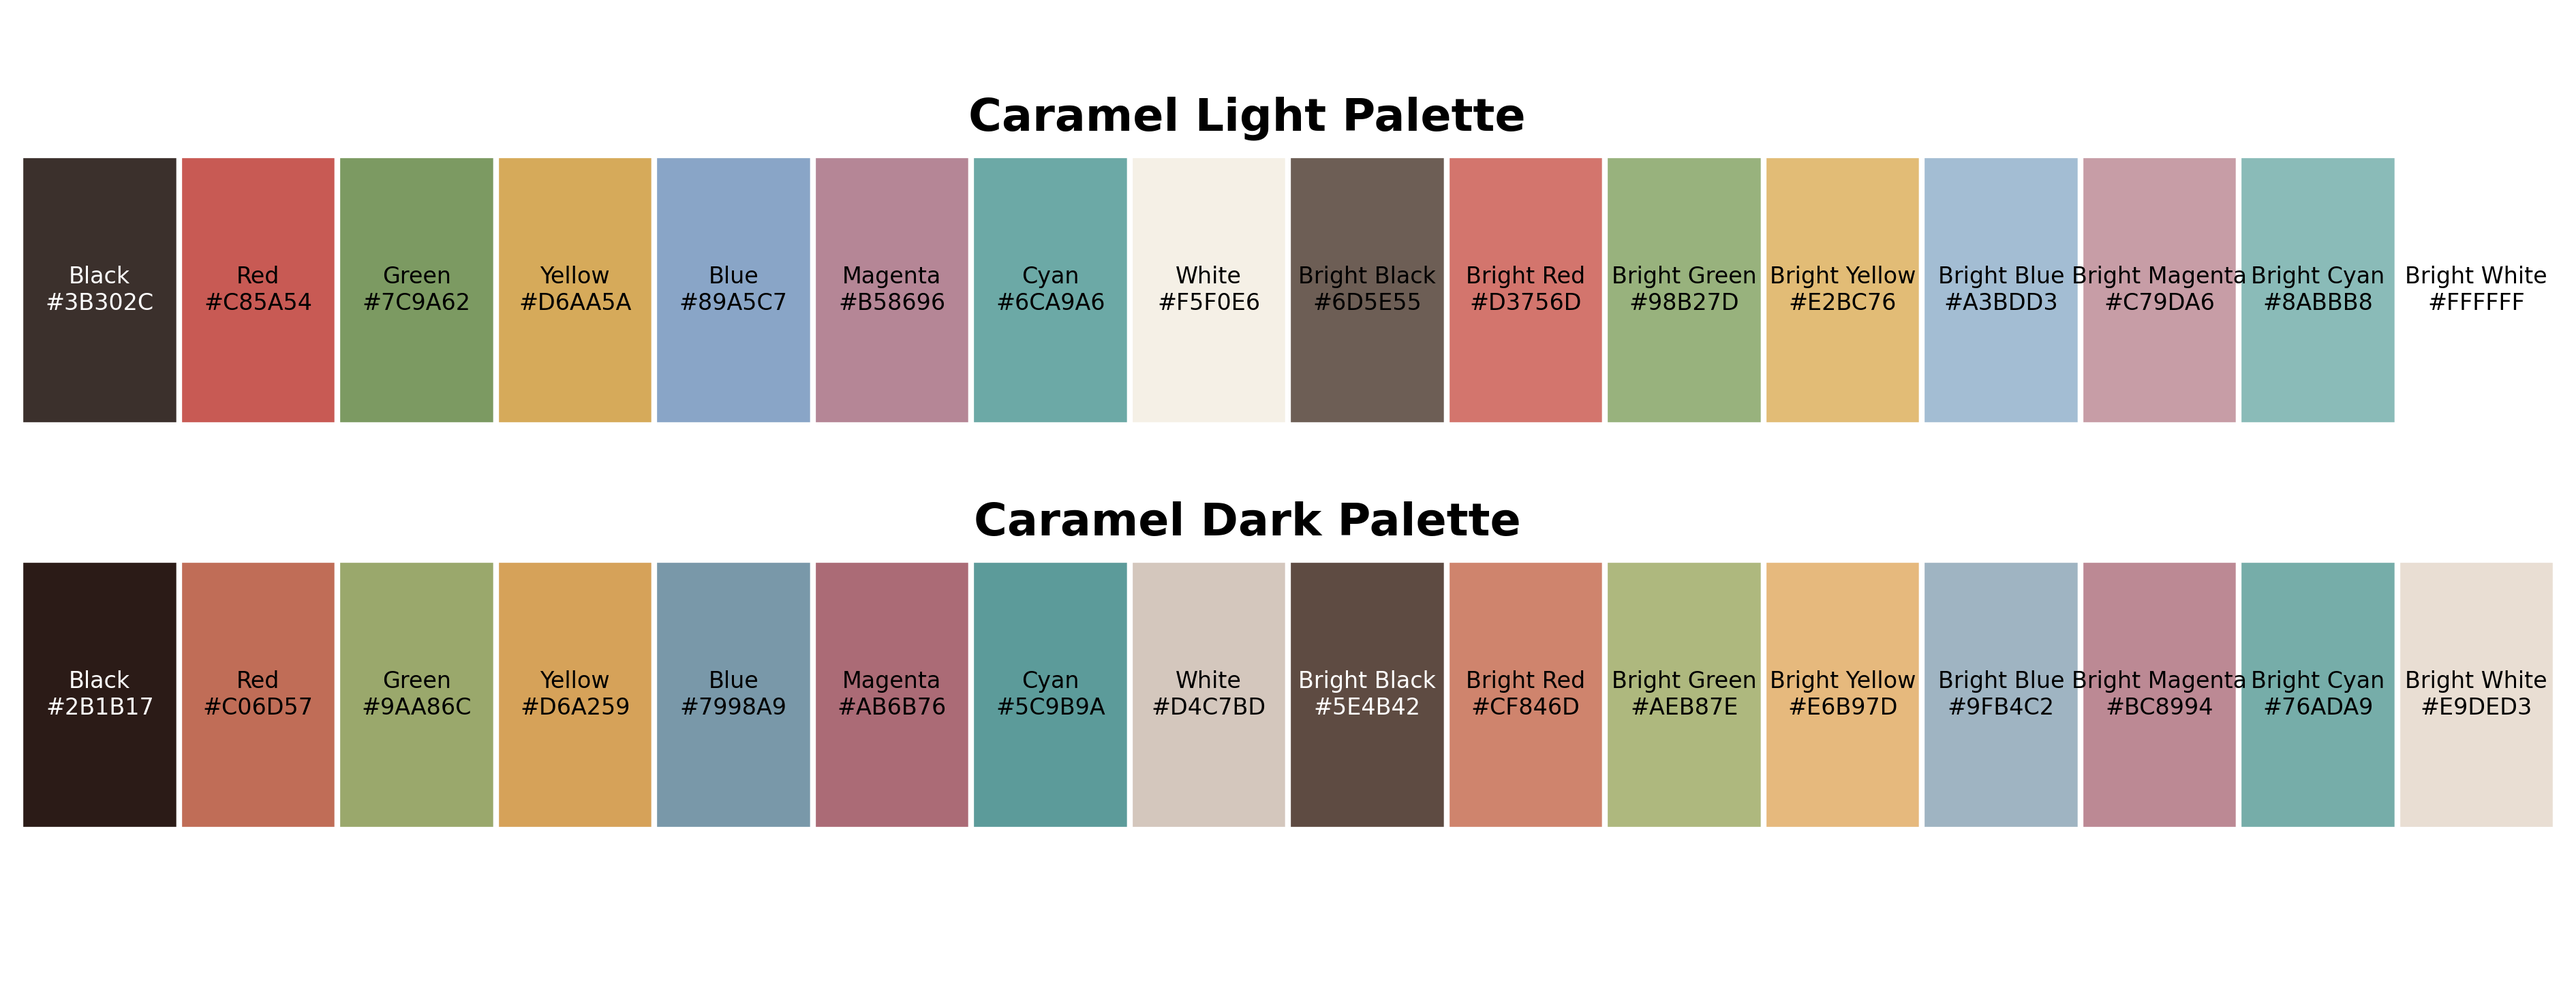
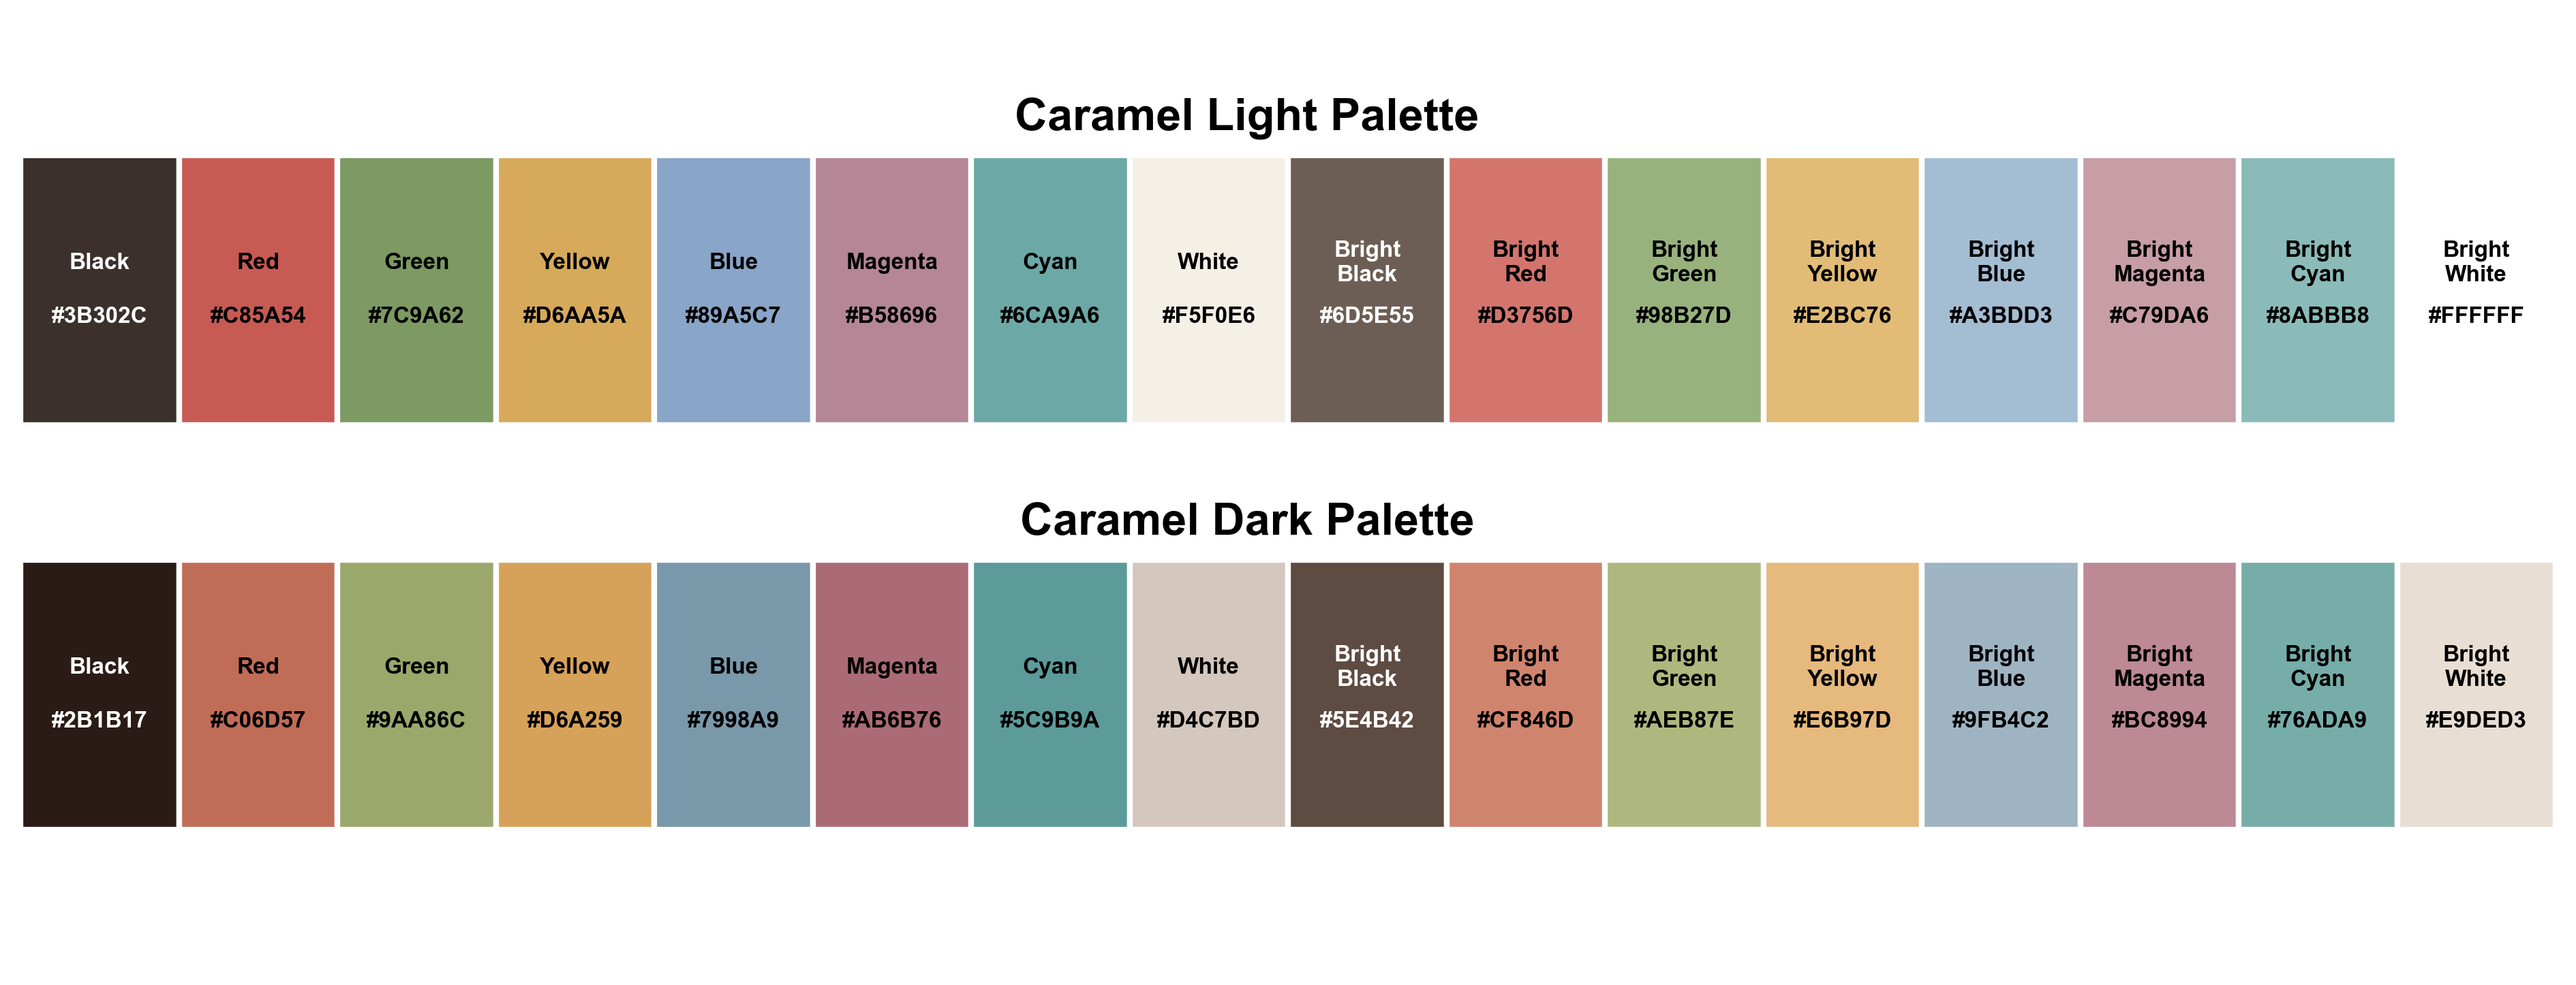
updated the color paletter images

diff --git a/src/generate_palette_images.py b/src/generate_palette_images.py
@@ -45,31 +45,51 @@ def generate_stacked_palette(light_palette, dark_palette, filename):
     ax.axis('off')
 
     # Titles for each row (placed outside plotting region)
-    fig.text(0.5, 0.8, "Caramel Light Palette", ha="center", va="center", fontsize=16, weight="bold", color="black")
-    fig.text(0.5, 0.47, "Caramel Dark Palette", ha="center", va="center", fontsize=16, weight="bold", color="black")
+    fig.text(0.5, 0.8, "Caramel Light Palette", ha="center", va="center", fontsize=16, weight="bold", color="black", fontfamily="Arial")
+    fig.text(0.5, 0.47, "Caramel Dark Palette", ha="center", va="center", fontsize=16, weight="bold", color="black", fontfamily="Arial")
 
     # Draw the light palette (top row)
     for i, (name, color) in enumerate(light_palette.items()):
         x = i  # Position along the horizontal axis
+        display_name = name.replace("Bright ", "Bright\n") if "Bright" in name else name
         ax.add_patch(plt.Rectangle((x, 1.5), 1, 1, color=color, ec="white", lw=2))  # Add white border
         ax.text(
-            x + 0.5, 2,
-            f"{name}\n{color}",
+            x + 0.5, 2.1,
+            display_name,
             ha="center", va="center",
-            fontsize=8,
-            color="white" if color in ["#3B302C"] else "black"
+            fontsize=8, weight="bold",
+            color="white" if color in ["#3B302C", "#6D5E55"] else "black",
+            fontfamily="Arial"
+        )
+        ax.text(
+            x + 0.5, 1.9,
+            f"{color}",
+            ha="center", va="center",
+            fontsize=8, weight="bold",
+            color="white" if color in ["#3B302C", "#6D5E55"] else "black",
+            fontfamily="Arial"
         )
 
     # Draw the dark palette (bottom row)
     for i, (name, color) in enumerate(dark_palette.items()):
         x = i  # Position along the horizontal axis
+        display_name = name.replace("Bright ", "Bright\n") if "Bright" in name else name
         ax.add_patch(plt.Rectangle((x, 0), 1, 1, color=color, ec="white", lw=2))  # Add white border
         ax.text(
-            x + 0.5, 0.5,
-            f"{name}\n{color}",
+            x + 0.5, 0.6,
+            display_name,
             ha="center", va="center",
-            fontsize=8,
-            color="white" if color in ["#2B1B17", "#5E4B42"] else "black"
+            fontsize=8, weight="bold",
+            color="white" if color in ["#2B1B17", "#5E4B42"] else "black",
+            fontfamily="Arial"
+        )
+        ax.text(
+            x + 0.5, 0.4,
+            f"{color}",
+            ha="center", va="center",
+            fontsize=8, weight="bold",
+            color="white" if color in ["#2B1B17", "#5E4B42"] else "black",
+            fontfamily="Arial"
         )
 
     ax.set_xlim(0, 16)  # Ensure 16 slots horizontally
